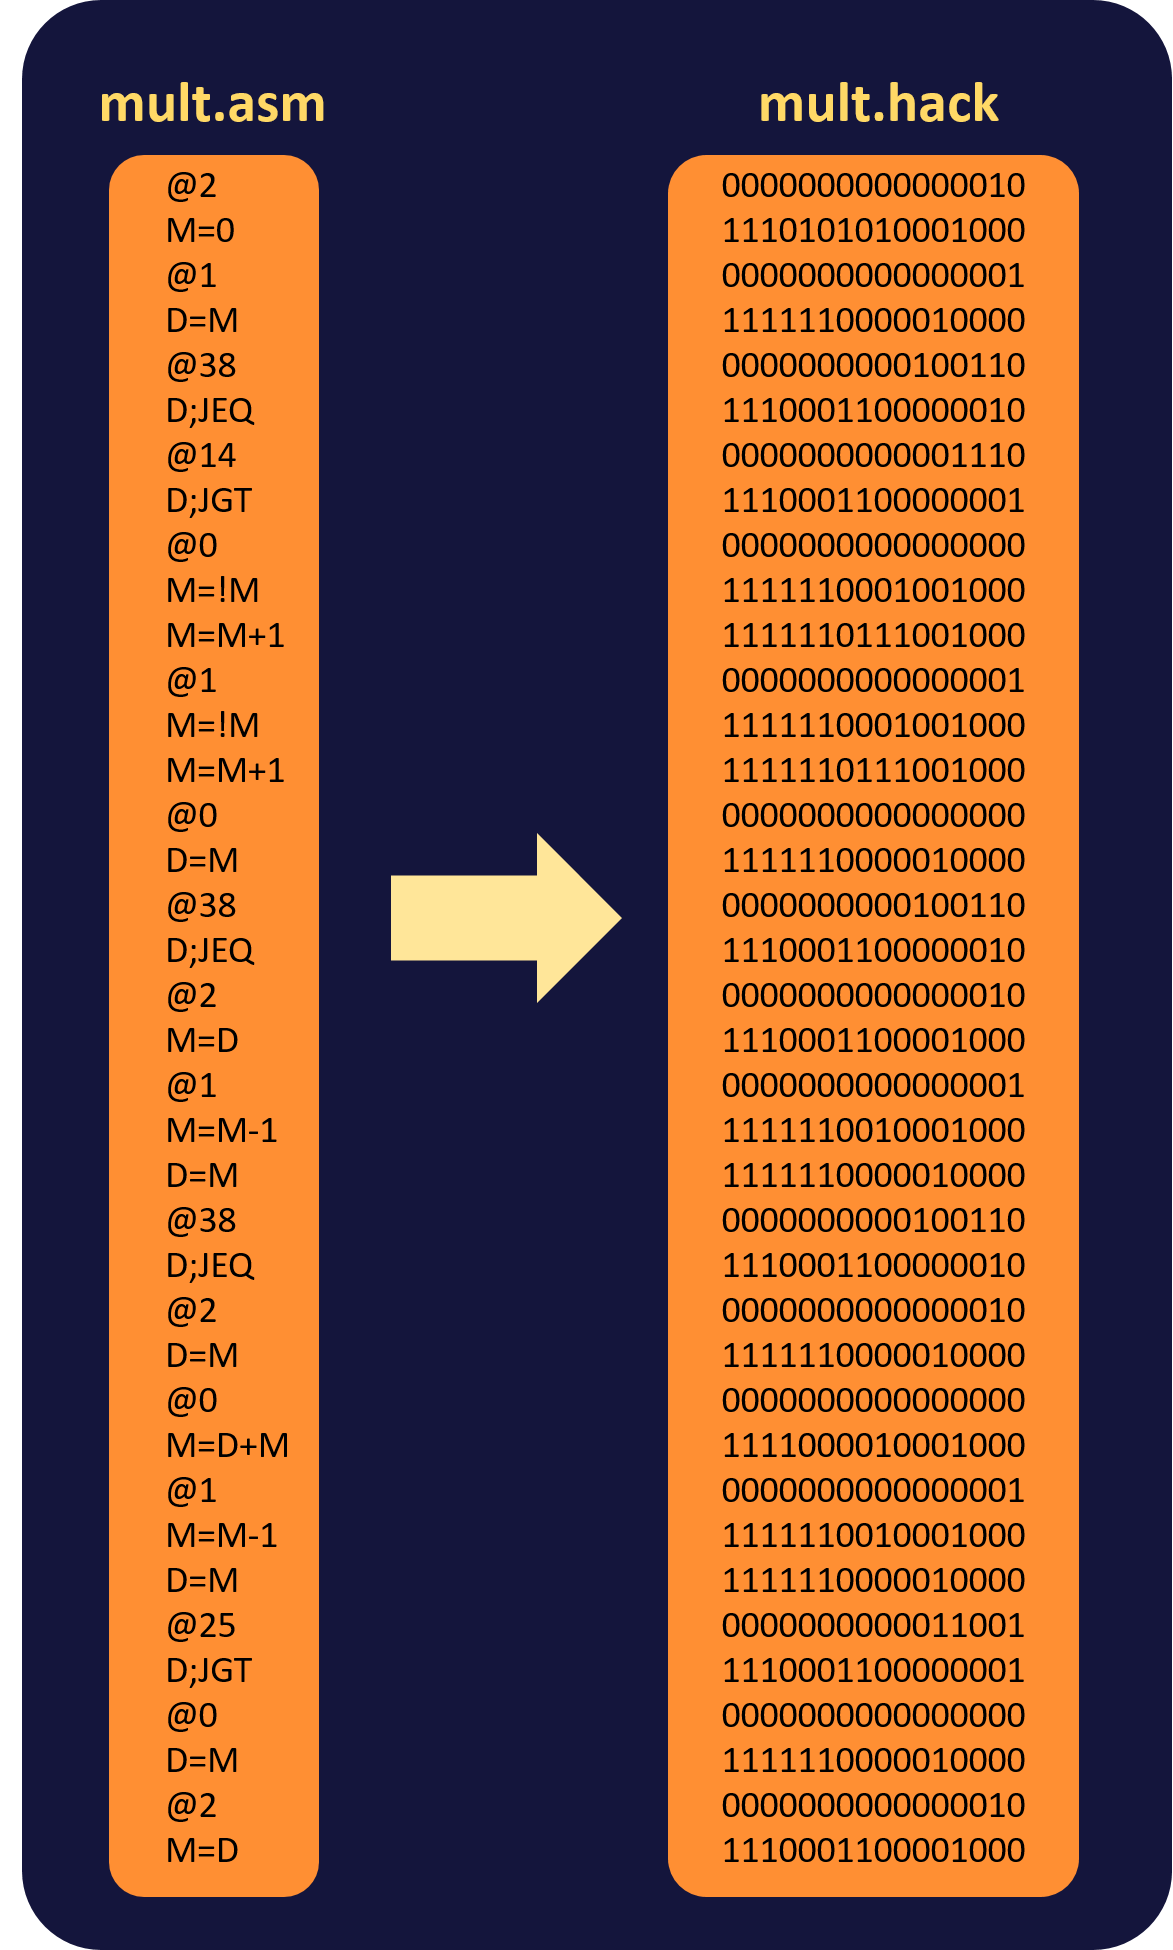
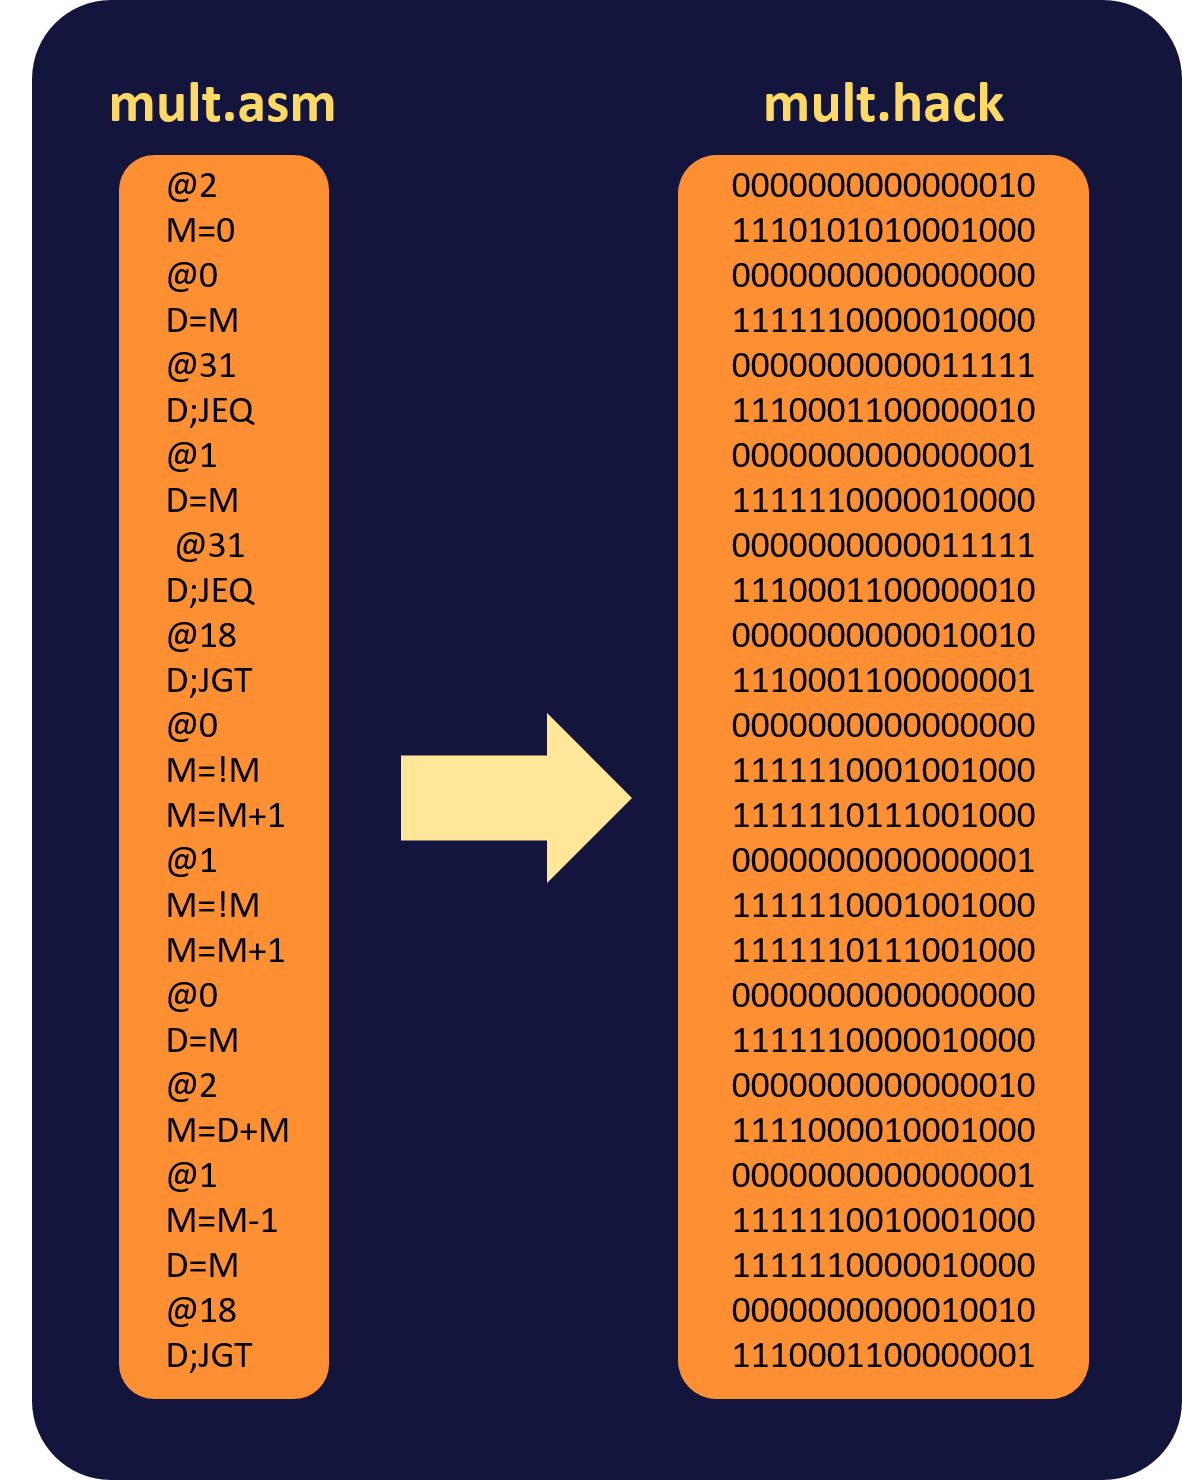
Update HW

diff --git a/HW/8/README.md b/HW/8/README.md
@@ -10,51 +10,55 @@
 // Multiplies R0 and R1 and stores the result in R2.
 // (R0, R1, R2 refer to RAM[0], RAM[1], and RAM[2], respectively.)
 
-// NUBLETZ NOTES : Lets say RAM[0] * RAM[1] = RAM[2] as R0*R1 = R2. 
-                   To multiplies R0 and R1, this program would do a loop for R1-1 times.
-                   For example if R0 = 5 and R1 = 3 then we just need to add R0 with 5 for 2 times.
-                   The first value of R0 would first stored in R2.
-                   during the loop, R0 value would be add by the value in R2.
-				   After the loop has finished, the result would replace the value in R2.
-                   E.x.
-                       RAM[0] = 3
-                       RAM[1] = 2
-                       RAM[2] = 0 (still empty)
+// NUBLETZ NOTES : Program Function  --  R0 * R1 = R2. 
+//                 To multiplies R0 and R1, this program would do a loop for R1 times.
+//                 During the loop, R2 would be added by R0.
+//                 For example if R0 = 5 and R1 = 3 then we just need to add 5 to R2 for 3 times.
+//				   (in this program the first value of R2 would always be 0)
+//				   After the loop has finished, we got the final result R2.
+//                 E.x.
+//				   RAM[0] = 3
+//				   RAM[1] = 2
+//				   RAM[2] = 0 (still empty)
 
-                       1. The value from RAM[0] stored in RAM[2]
-                       RAM[0] = 3
-                       RAM[1] = 2
-                       RAM[2] = 3
+//				   1. Add RAM[2] by RAM[0]
+//				   RAM[0] = 3
+//				   RAM[1] = 2
+//				   RAM[2] = 3
 
-                       2. Decrease the value from RAM[1] by one (because we only need to loop for y-1 time (RAM[1]-1))
-                       RAM[0] = 3
-                       RAM[1] = 1
-                       RAM[2] = 3
+//				   2. Decrease the value from RAM[1] by one 
+//				   RAM[0] = 3
+//				   RAM[1] = 1
+//				   RAM[2] = 3
 
-                       3. Add RAM[0] by RAM[2]
-                       RAM[0] = 6
-                       RAM[1] = 1
-                       RAM[2] = 3
+//				   3. Add RAM[2] by RAM[0]
+//				   RAM[0] = 3
+//				   RAM[1] = 1
+//				   RAM[2] = 6
 
-                       4. Decrease the RAM[1] value by 1
-                       RAM[0] = 6
-                       RAM[1] = 0
-                       RAM[2] = 3
+//				   4. Decrease the RAM[1] value by one
+//				   RAM[0] = 3
+//				   RAM[1] = 0
+//				   RAM[2] = 6
 
-                       5. Since the value of RAM[1] equal to zero, so the loop is over.
-                       The program would store value in RAM[0] into RAM[2] as the final result.
-                       RAM[0] = 6
-                       RAM[1] = 0
-                       RAM[2] = 6
+//				   5. Since the value of RAM[1] equal to zero, so the loop is over.
+//				   The program would store value in RAM[0] into RAM[2] as a final result.
+//				   RAM[0] = 3
+//				   RAM[1] = 0
+//				   RAM[2] = 6
 
 // Put your code here.
 	@2
 	M=0 //set RAM[2] value into 0
+	@0
+	D=M
+	@31
+	D;JEQ //check if RAM[0] == 0, jump into the conclusion RAM[2] = 0. Because 0 * x = 0
 	@1
 	D=M
-	@38
-	D;JEQ //check if RAM[1] == 0, jump into the conclusion RAM[2] = 0. Because 0 * x = 0
-	@14
+	@31
+	D;JEQ //check if RAM[1] == 0, jump into the conclusion RAM[2] = 0. Because x * 0 = 0
+	@18
 	D;JGT // else if RAM[1] is greater than 0, jump to line 14
 	@0 //else if RAM[1] is negative
 	M=!M //set RAM[0] value into negative
@@ -62,30 +66,16 @@
 	@1
 	M=!M //set RAM[1] = !RAM[1] so the value would be positive
 	M=M+1 //Just like before, we add !M value by 1
-	@0
+	@0 //start the looping program to multiplies R0 and R1
 	D=M
-	@38
-	D;JEQ //check if RAM[0] == 0, jump into the conclusion RAM[2] = 0. Because x * 0 = 0
 	@2
-	M=D //set RAM[2] value equal to RAM[0]
-	@1
-	M=M-1 //Decrease RAM[1] value by 1
-	D=M
-	@38
-	D;JEQ //If RAM[1] value equal to zero, then the result from this multiplication is equal to RAM[0] because x * 1 = x
-	@2 //line 25 (start loop program)
-	D=M //Take the value from RAM[2]. Remember that we store the first value of RAM[0] here.
-	@0
-	M=D+M //Add RAM[0] by RAM[2]
+	M=D+M //set RAM[2] = RAM[2] + RAM[0]
 	@1
 	M=M-1 //decrease the total loop that need to do
 	D=M 
-	@25
+	@18
 	D;JGT //if the loop value haven't reach 0, the program would go back to line 25
-	@0 //after finish the loop, read the value in ROM[0](final result)
-	D=M
-	@2
-	M=D //write the final value in RAM[2]
+	//the loop has finished and the final result shown in RAM[2]
 ```
 ## Picture
 <img src="multAsm.png" alt="Assembly to Hack" title="Assembly to Hack" width="500" />
